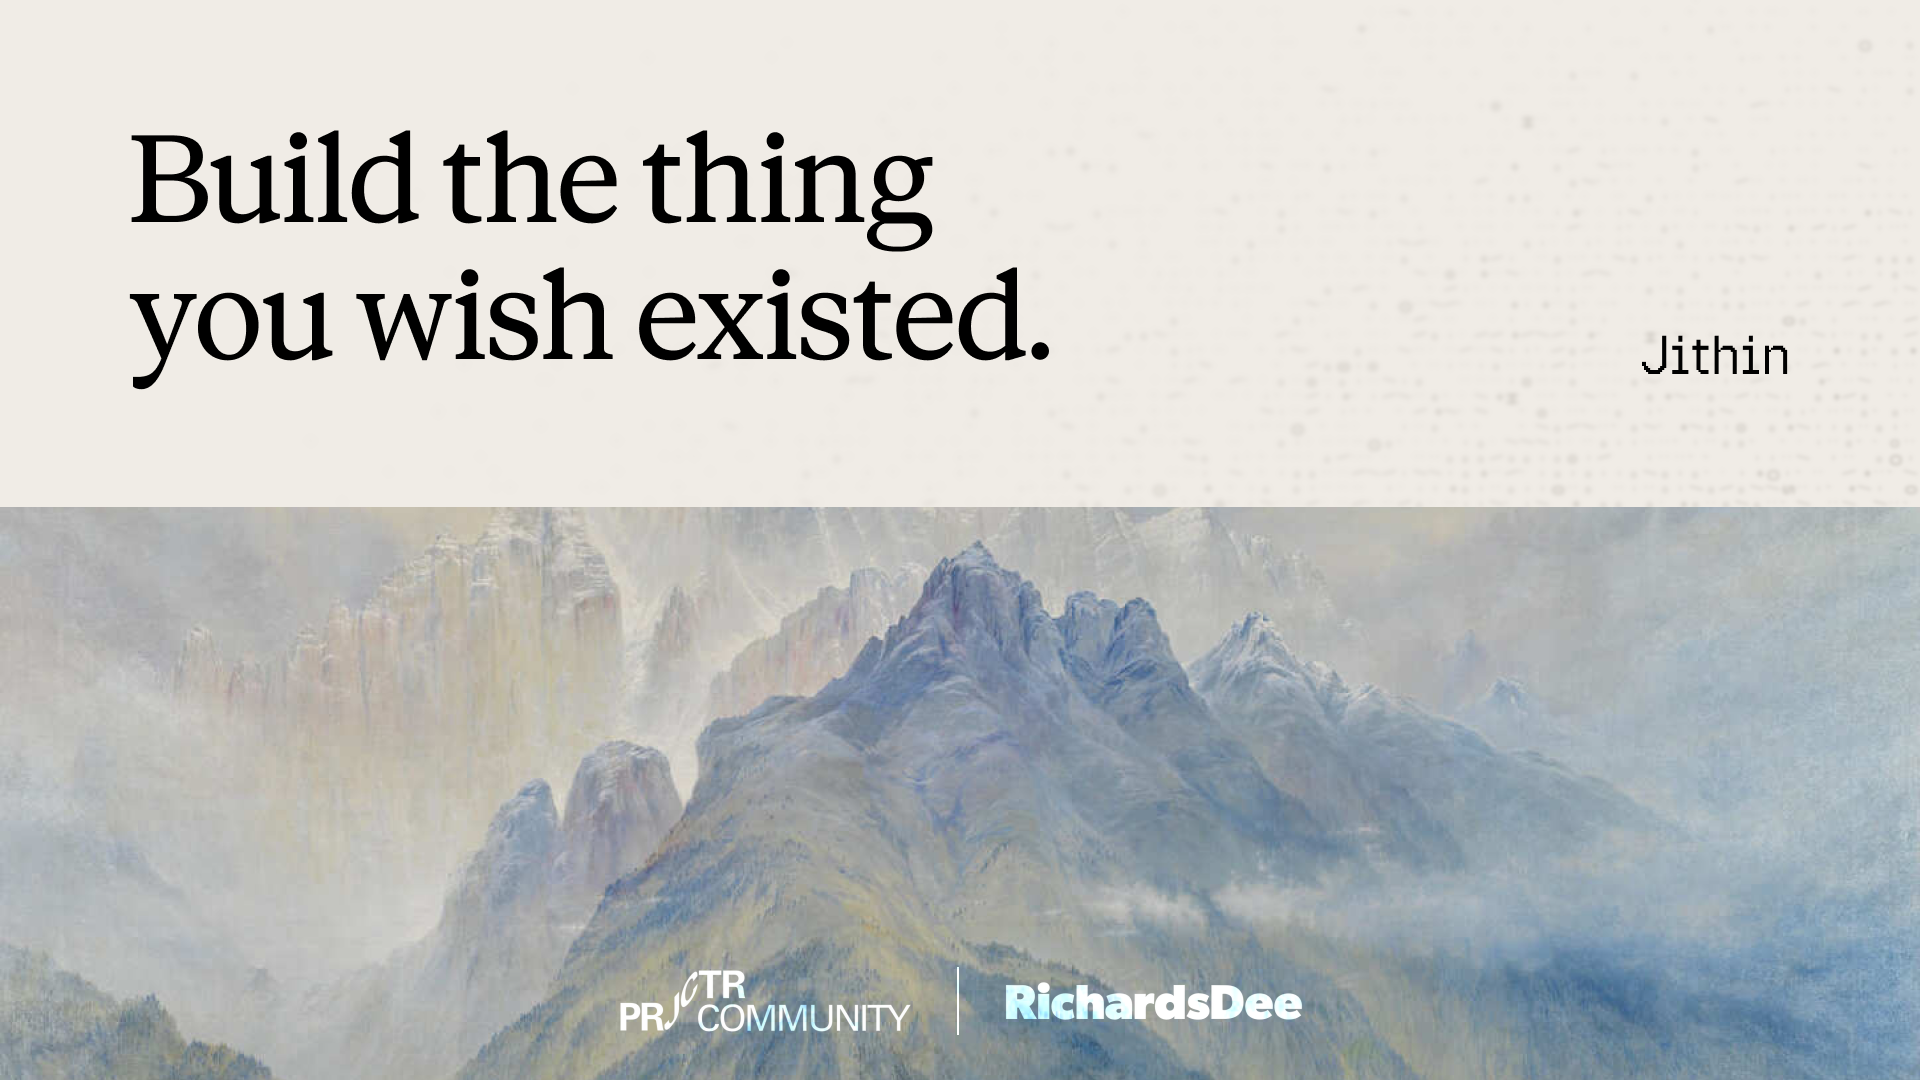
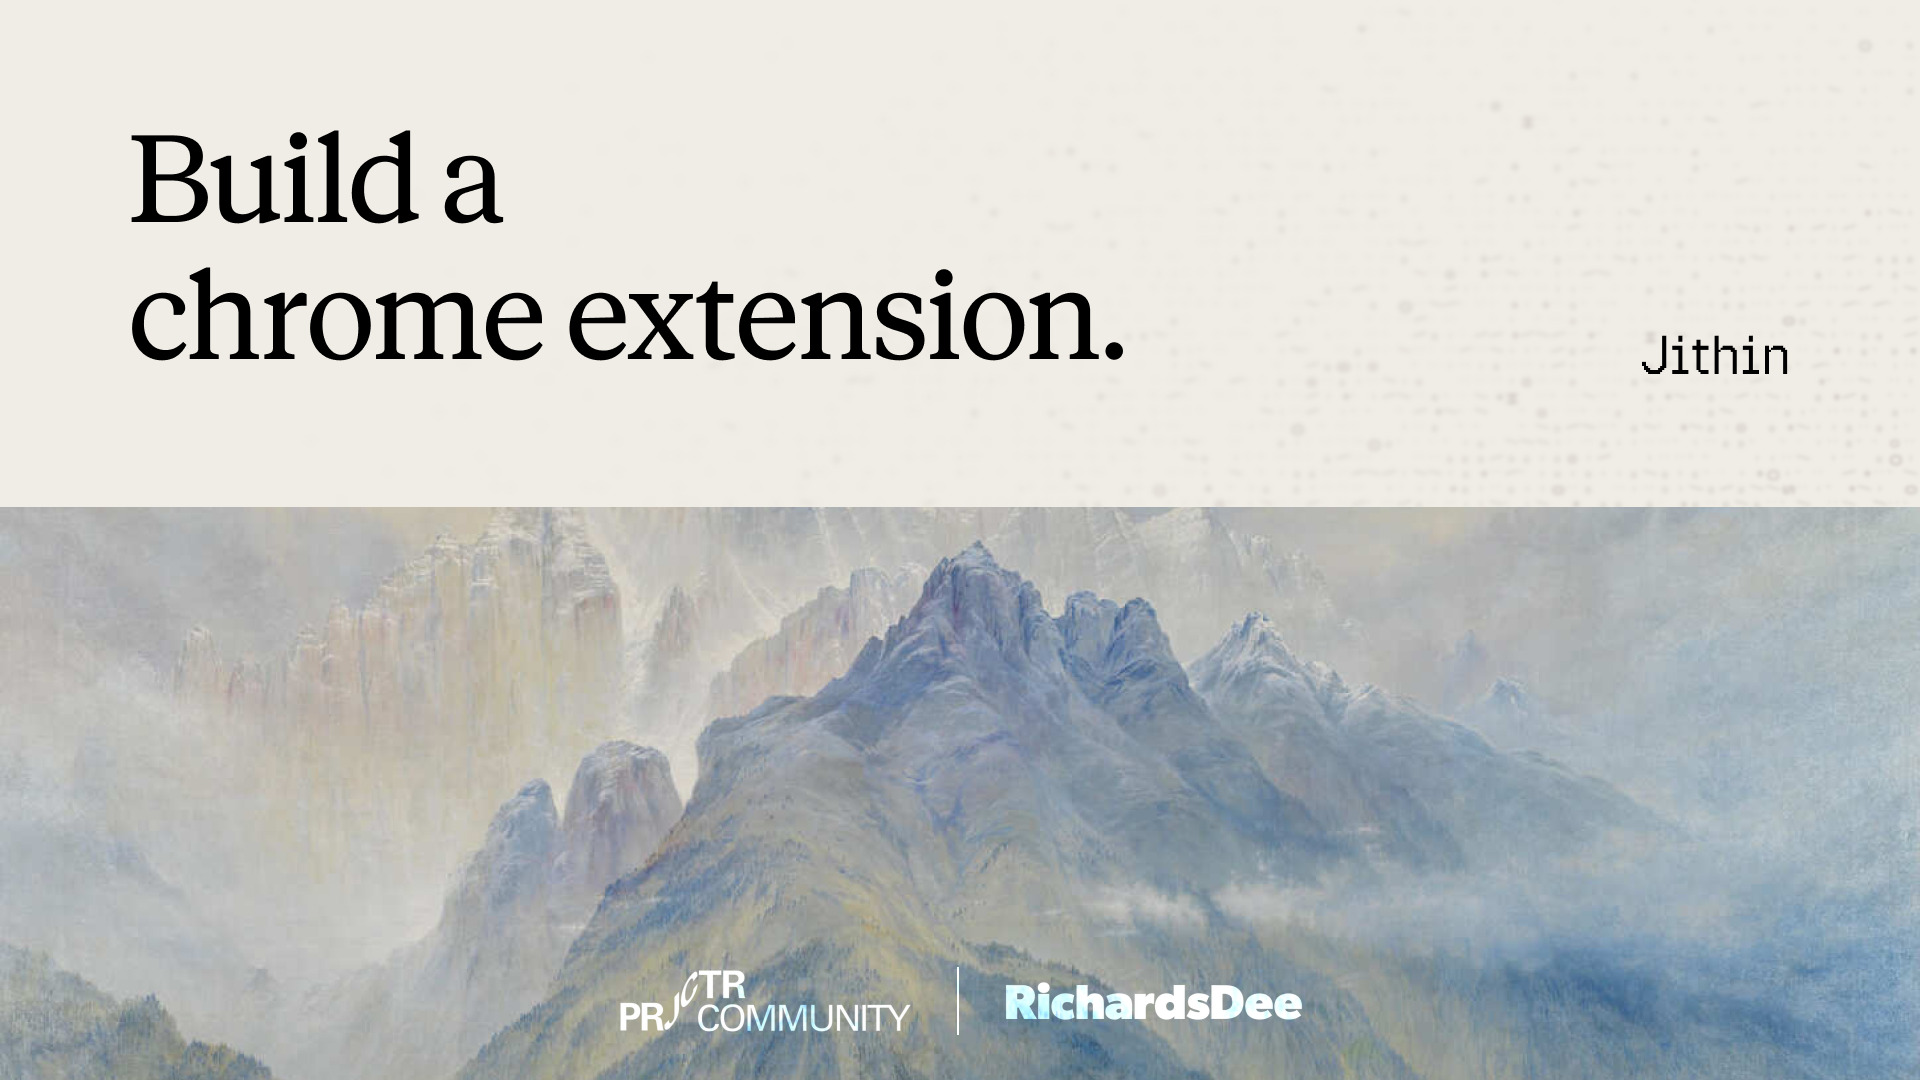
Replace README hero image
Claude-Session: https://claude.ai/code/session_011QMEDYPdNVd5TtkfAaU89V

Changed region(s): [[0.0625, 0.1222, 0.5938, 0.3667]]

diff --git a/README.md b/README.md
@@ -1,4 +1,4 @@
-![Build the thing you wish existed. Vibe Coding Club workshop with Jithin, Projector Community and RichardsDee](images/hero.png)
+![Build a Chrome extension. Vibe Coding Club workshop with Jithin, Projector Community and RichardsDee](images/hero.png)
 
 # Build Your Own New Tab ✨
 
